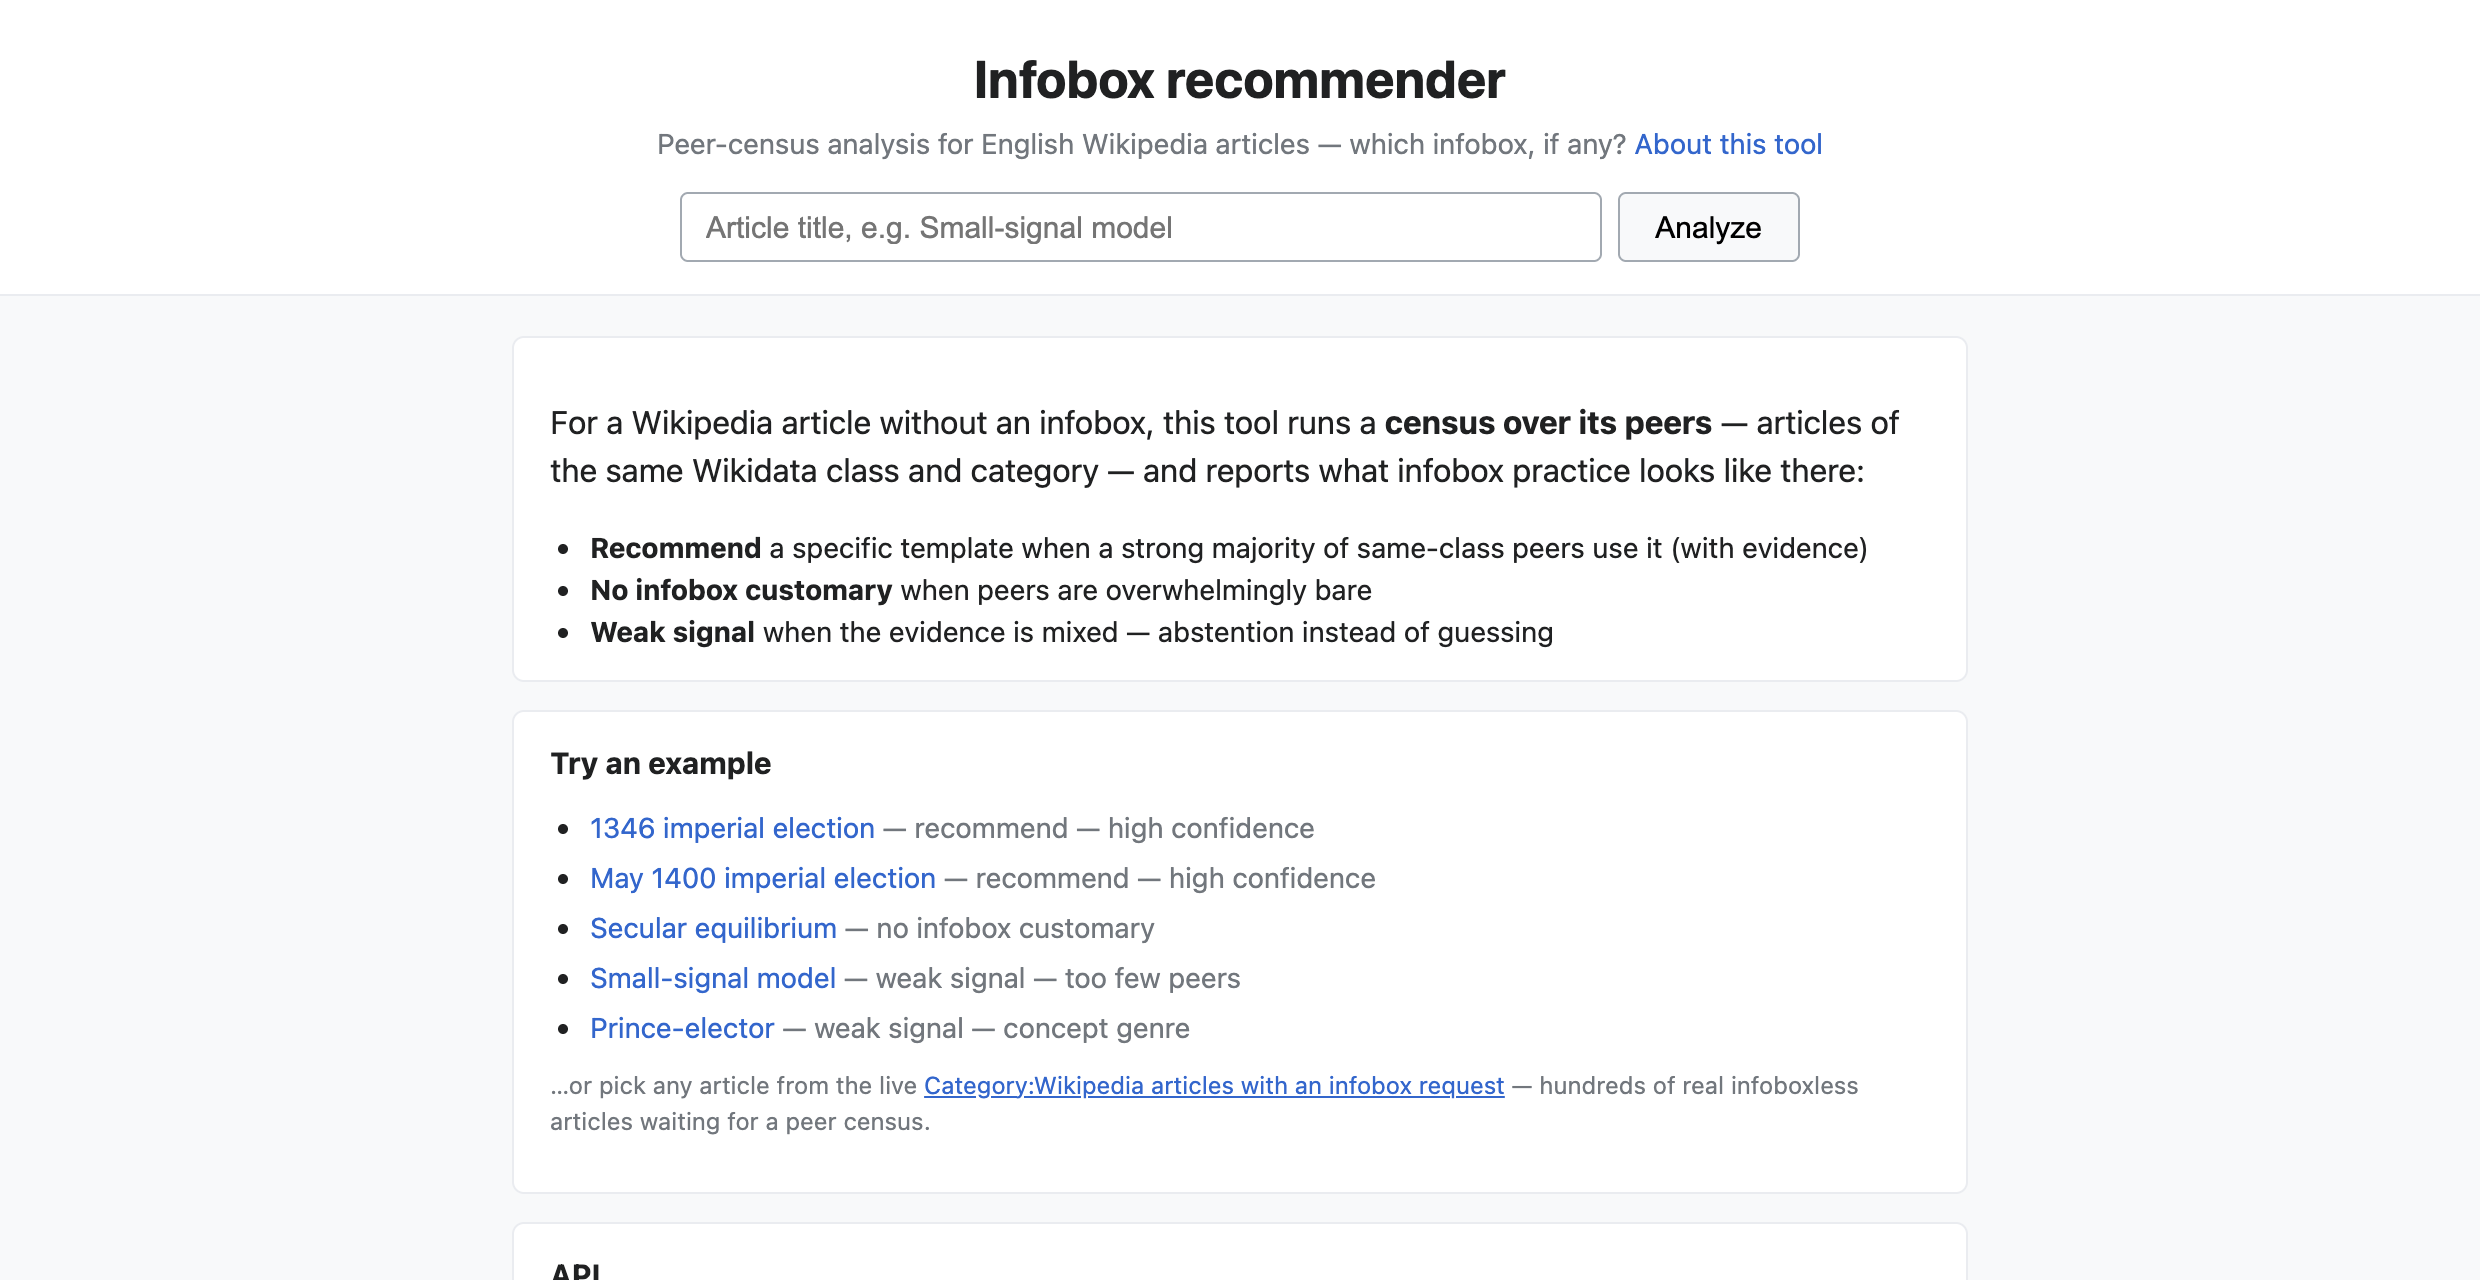
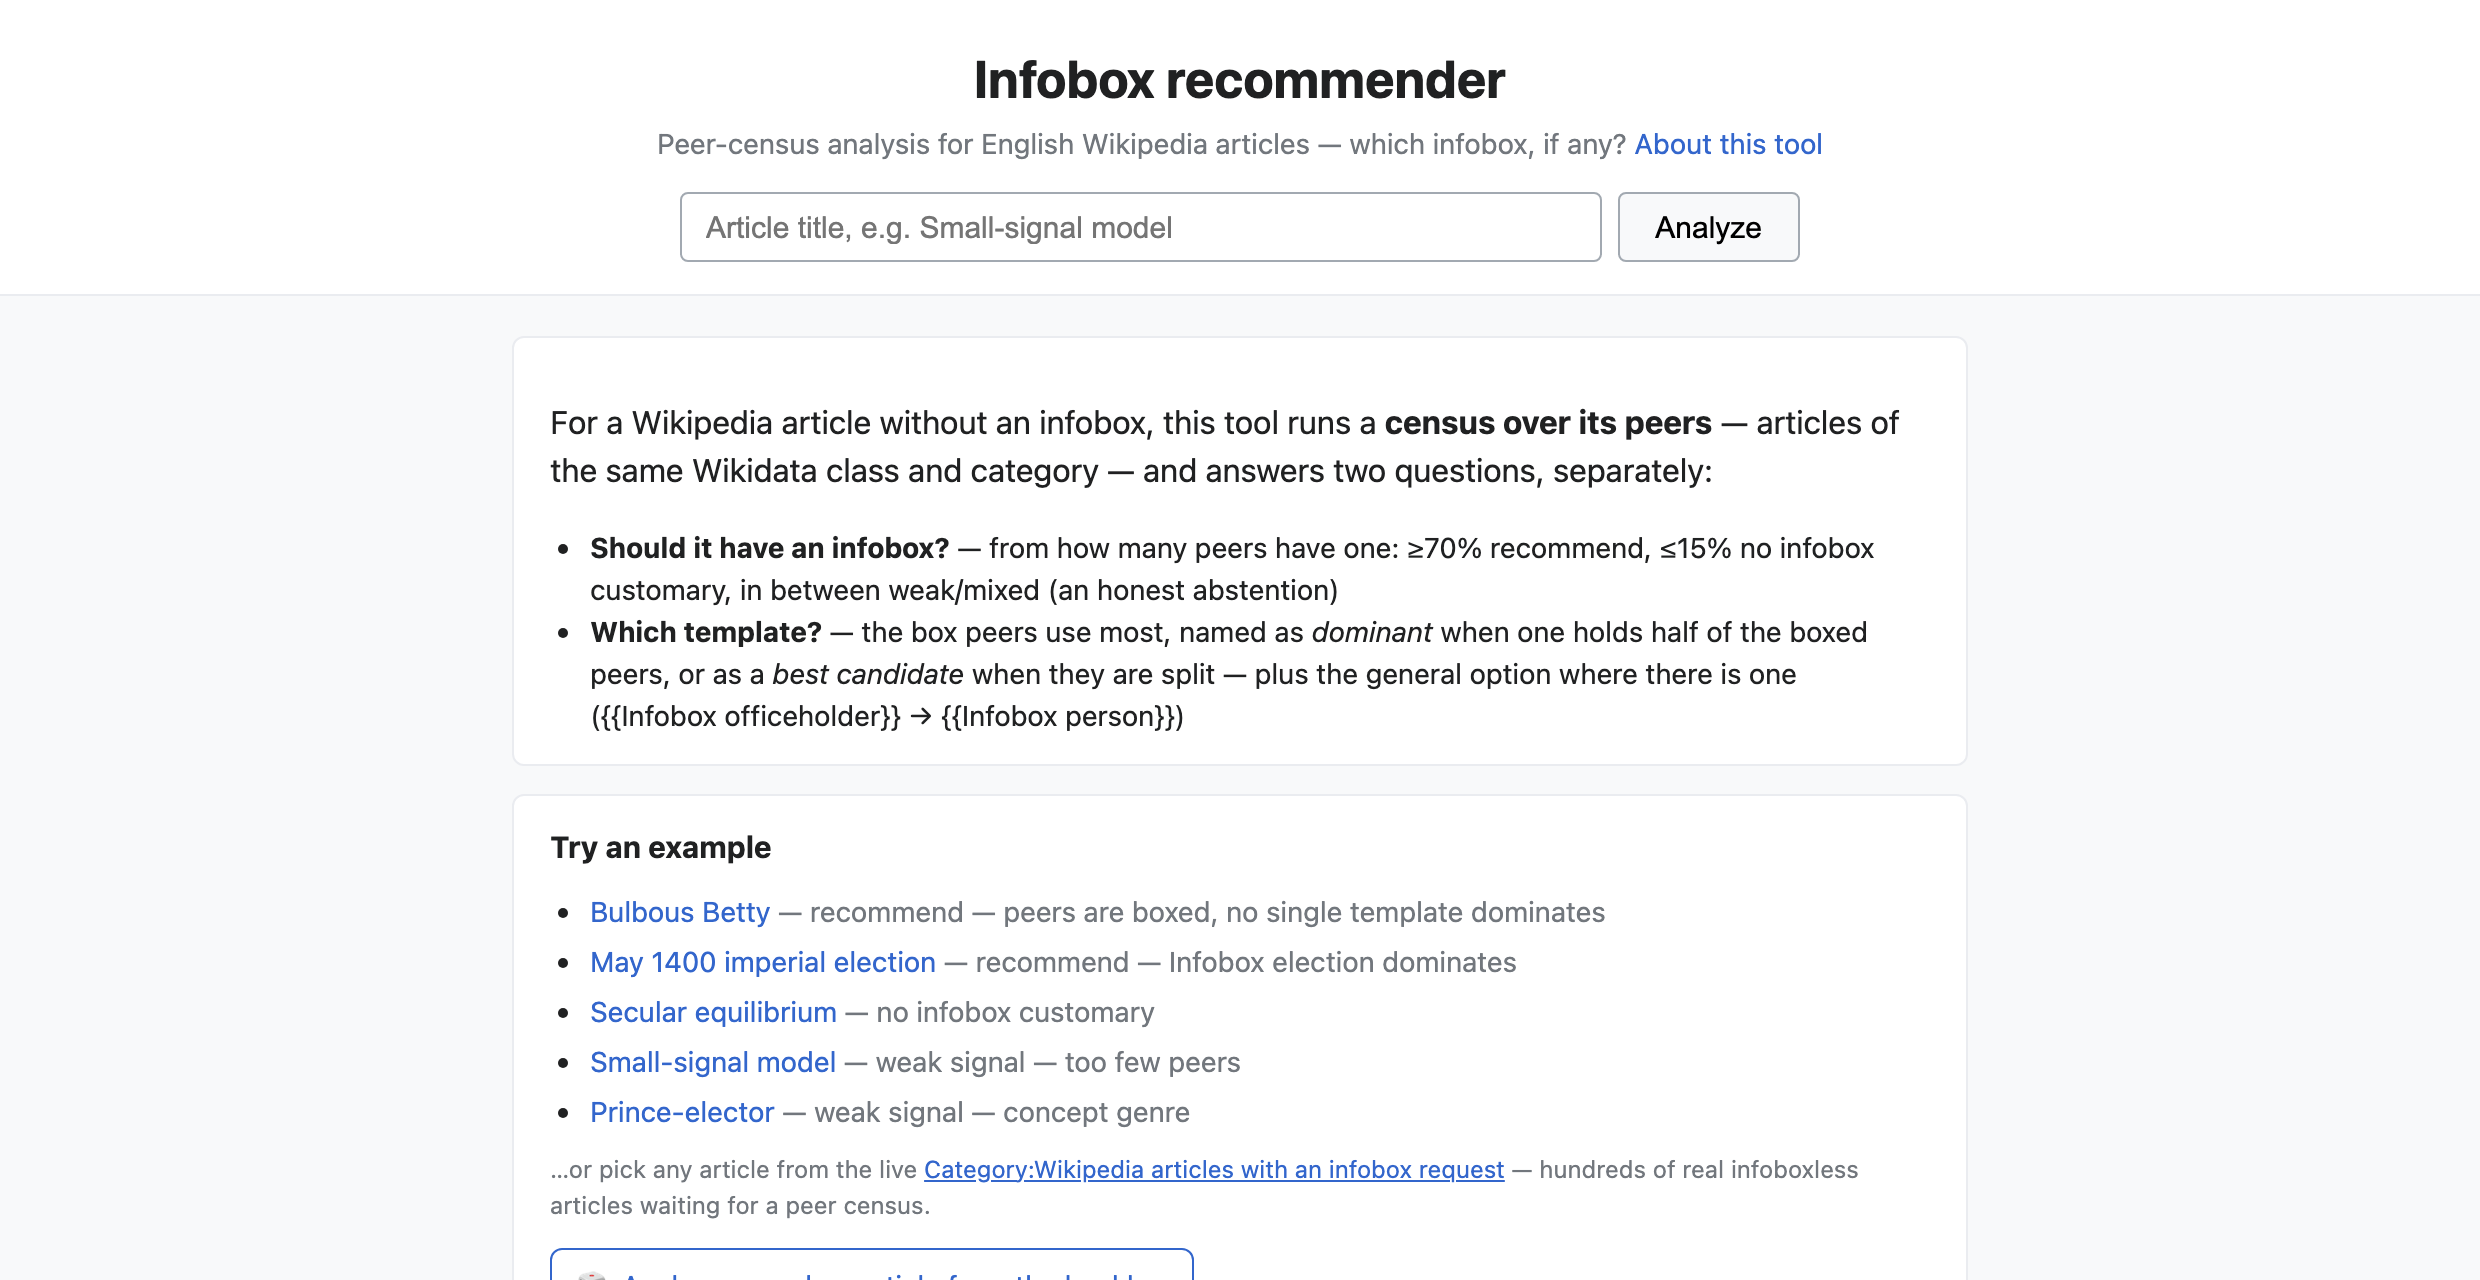
Re-shoot the README screenshots, and fix the stale home-page copy they exposed
The README's hero image was from 2026-09-30 and its alt text claimed
"confidence: high — 97% of 31 same-class peers", which the shipped tool no longer
produces (that article now reports medium confidence, "77% of 61 … dominates
31/47 boxed"). So the screenshot was documenting a report format that no longer
exists — and shooting it turned up the reason it HAD aged: the screenshots are
taken fresh each time in a clean browser context, where the first-visit About
dialog auto-opens, so the first two attempts documented the modal instead of the
page.

Both images are re-shot from the live deployment at the original framing
(1240×640 and 1240×980 at deviceScaleFactor 2, i.e. 2480×1280 and 2480×1960) with
the dialog dismissed, and the alt texts now describe what is actually in them.

Doing that exposed two pieces of stale copy ON the home page, which the screenshot
made visible:

- the intro still described the pre-two-axis model ("Recommend a specific template
  when a strong majority of same-class peers use it … three verdicts"); it now
  states the two questions and their bands, and the family general option.
- the example hints were wrong: "1346 imperial election — recommend — high
  confidence" is now `already-has-infobox` (an editor added the box it
  recommended — the outcome the tool exists for, recorded in usage-history.md), and
  "May 1400 imperial election — high confidence" is medium. Each of the five
[…]

Changed region(s): [[0.2173, 0.4062, 0.7452, 1.0], [0.4968, 0.3438, 0.7452, 0.375]]

diff --git a/public/app.js b/public/app.js
@@ -7,8 +7,8 @@ const $form = document.getElementById('search');
 const $input = document.getElementById('title');
 
 const EXAMPLES = [
-  ['1346 imperial election', 'recommend — high confidence'],
-  ['May 1400 imperial election', 'recommend — high confidence'],
+  ['Bulbous Betty', 'recommend — peers are boxed, no single template dominates'],
+  ['May 1400 imperial election', 'recommend — Infobox election dominates'],
   ['Secular equilibrium', 'no infobox customary'],
   ['Small-signal model', 'weak signal — too few peers'],
   ['Prince-elector', 'weak signal — concept genre'],
@@ -470,11 +470,13 @@ function renderHome() {
   $view.innerHTML = `
     <section class="panel intro">
       <p>For a Wikipedia article without an infobox, this tool runs a <strong>census over its peers</strong> —
-      articles of the same Wikidata class and category — and reports what infobox practice looks like there:</p>
+      articles of the same Wikidata class and category — and answers two questions, separately:</p>
       <ul class="intro-list">
-        <li><strong>Recommend</strong> a specific template when a strong majority of same-class peers use it (with evidence)</li>
-        <li><strong>No infobox customary</strong> when peers are overwhelmingly bare</li>
-        <li><strong>Weak signal</strong> when the evidence is mixed — abstention instead of guessing</li>
+        <li><strong>Should it have an infobox?</strong> — from how many peers have one: ≥70% recommend,
+        ≤15% no infobox customary, in between weak/mixed (an honest abstention)</li>
+        <li><strong>Which template?</strong> — the box peers use most, named as <em>dominant</em> when one holds
+        half of the boxed peers, or as a <em>best candidate</em> when they are split — plus the general
+        option where there is one ({{Infobox officeholder}} → {{Infobox person}})</li>
       </ul>
     </section>
     <section class="panel">

diff --git a/README.md b/README.md
@@ -15,7 +15,7 @@ script whose infobox tab calls this service for articles that lack an infobox
 first ~70 analyses and 2 subsequent infobox additions by named editors are
 recorded in [`usage-history.md`](usage-history.md).
 
-[![Example report for "May 1400 imperial election": Recommend Infobox election (confidence: high) — 97% of 31 same-class peers use an infobox, with the peer census, template distribution, neighborhood tiers, and example peers](images/report.png)](https://infobox-recommender.toolforge.org/?title=May+1400+imperial+election)
+[![Example report for "May 1400 imperial election": Recommend: Infobox election (confidence: medium) — most peers have an infobox (77% of 61) and Infobox election dominates (31/47 boxed), above the peer census, the template distribution and the neighborhood tiers](images/report.png)](https://infobox-recommender.toolforge.org/?title=May+1400+imperial+election)
 
 *(Screenshot: a live report — click to open it.)*
 
@@ -47,7 +47,7 @@ existing choice matches peer practice: **consistent**, **atypical**
 **Web** — <https://infobox-recommender.toolforge.org> — type any article
 title, or start from a one-click example.
 
-<img src="images/home.png" alt="The home page: a title search box, the two questions explained, and one-click examples" width="700">
+<img src="images/home.png" alt="The home page: a title search box, the two questions and their bands explained, and a list of one-click examples" width="700">
 
 The home page also links the live
 [Category:Wikipedia articles with an infobox request](https://en.wikipedia.org/wiki/Category:Wikipedia_articles_with_an_infobox_request)
